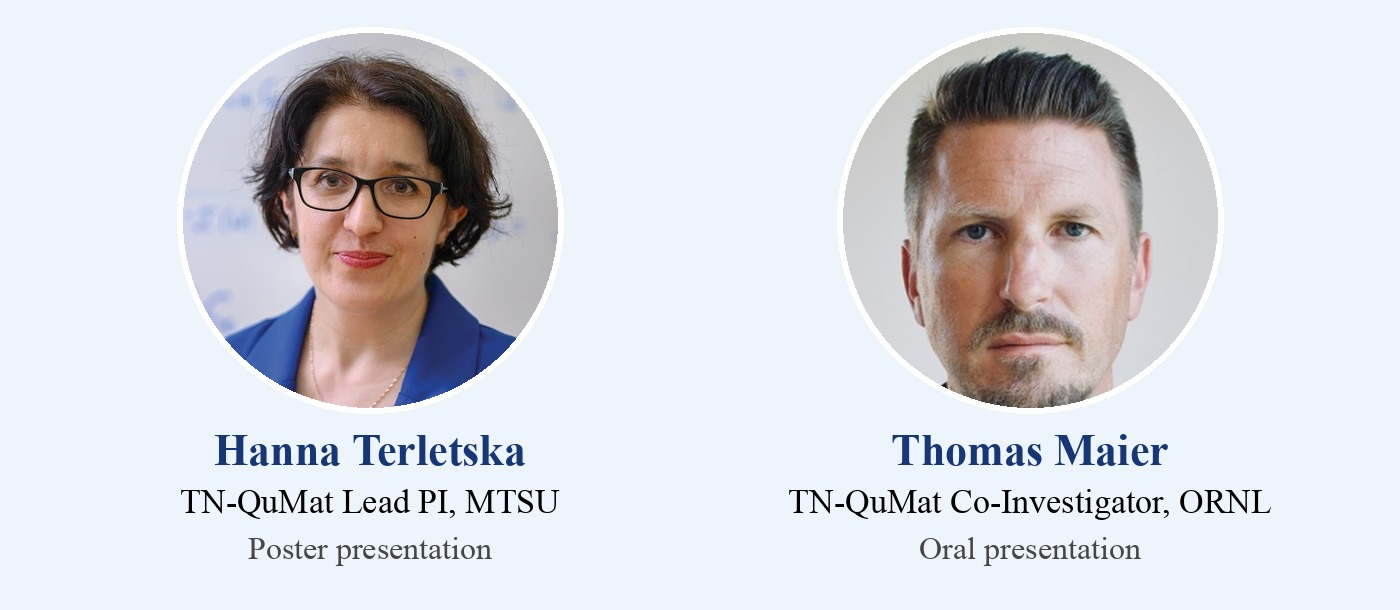
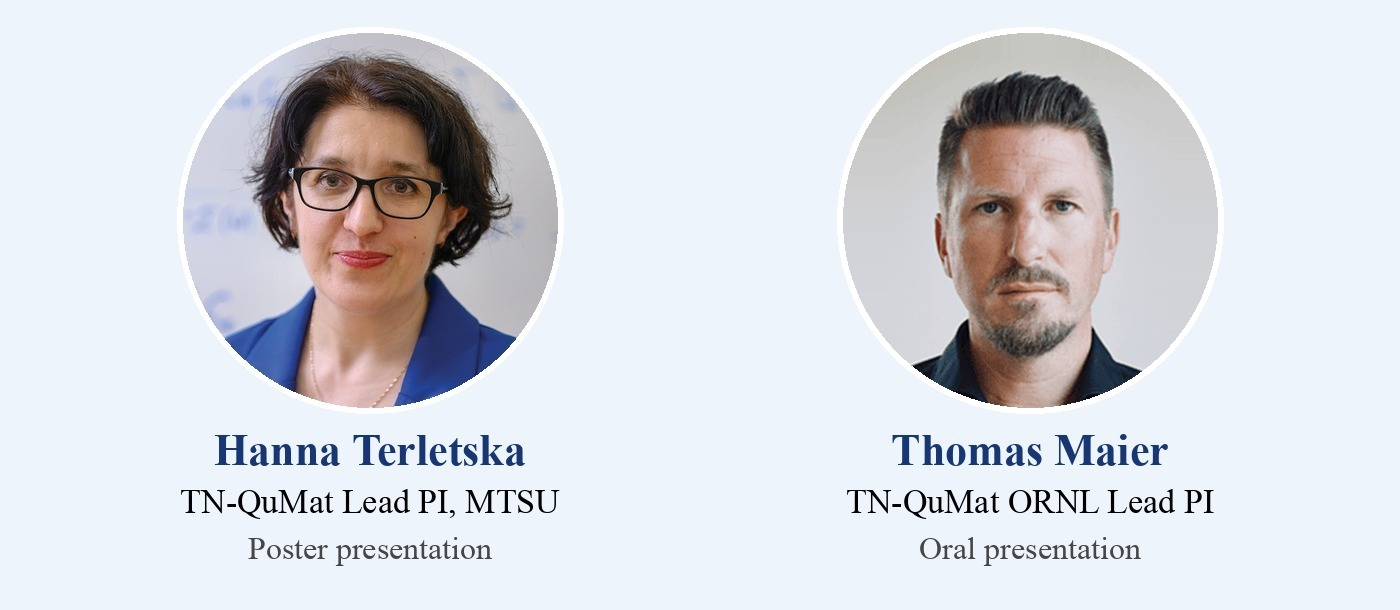
Add files via upload

Changed region(s): [[0.645, 0.0623, 0.8293, 0.6852], [0.5529, 0.8098, 0.9214, 0.841]]

diff --git a/content/english/news/doe-pi-meeting-2026.md b/content/english/news/doe-pi-meeting-2026.md
@@ -4,7 +4,7 @@ date: 2026-09-10
 EventDate: "September 8-10, 2026"
 location: "Rockville, MD"
 category: "Conferences"
-ShortSummary: "Hanna Terletska presented TN-QuMat's research and workforce program at the 2026 DOE Theoretical Condensed Matter Physics Principal Investigators' Meeting, where co-investigator Thomas Maier also gave a talk."
+ShortSummary: "Hanna Terletska presented TN-QuMat's research and workforce program at the 2026 DOE Theoretical Condensed Matter Physics Principal Investigators' Meeting, where ORNL lead PI Thomas Maier also gave a talk."
 hero: /images/news/doe-pi-meeting-2026/poster.jpg
 heroCaption: "The TN-QuMat poster presented at the 2026 DOE TCMP Principal Investigators' Meeting."
 images:
@@ -16,7 +16,7 @@ doe_logo: /images/news/workshop-2025/doe_green.jpg
 
 Lead PI Hanna Terletska of Middle Tennessee State University (MTSU) was invited to present a poster on TN-QuMat as a DOE RENEW project. The poster, “TN-QuMat: Tennessee Quantum Materials Research and Training Program,” appeared in the session on superconducting and quantum materials on September 9.
 
-Thomas Maier of Oak Ridge National Laboratory (ORNL), a TN-QuMat co-investigator, also gave a talk at the meeting, “Ultrafast Signatures of Electron-Phonon Coupling,” on September 8.
+Thomas Maier of Oak Ridge National Laboratory (ORNL), TN-QuMat's ORNL lead PI, also gave a talk at the meeting, “Ultrafast Signatures of Electron-Phonon Coupling,” on September 8.
 
 ![Hanna Terletska and Thomas Maier](/images/news/doe-pi-meeting-2026/presenters.jpg)
 
